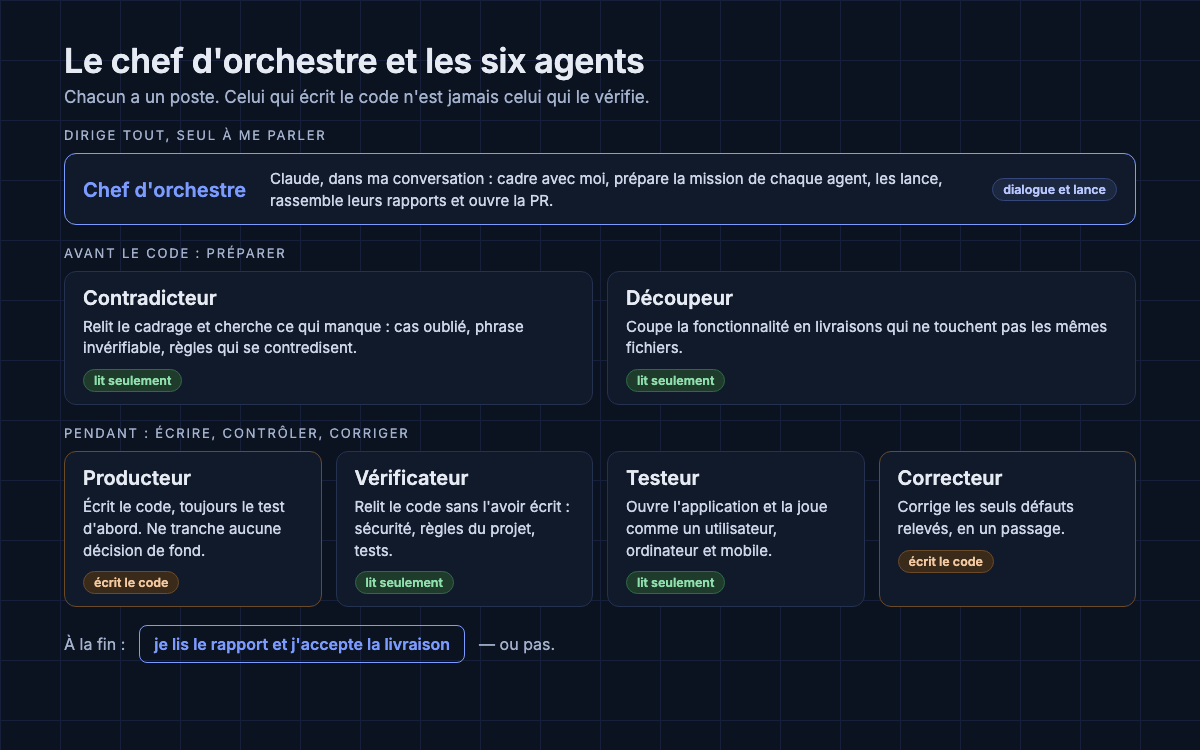
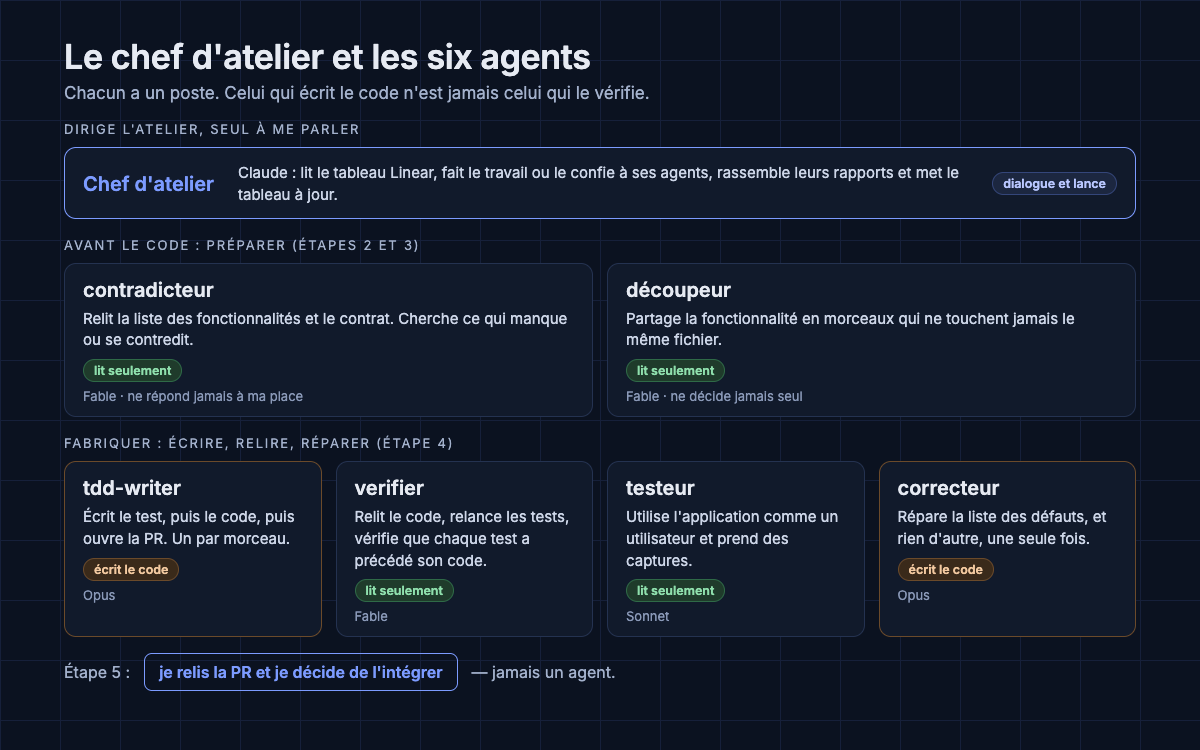
feat(PFO-107): PILOT page told in five steps, inline screenshots and styled tables

diff --git a/src/__tests__/galerie-video.test.tsx b/src/__tests__/galerie-video.test.tsx
@@ -49,7 +49,7 @@ describe("Page de fiche sans captures ni vidéo — rendu figé avant la galerie
     expect(container.querySelector("figure")).toBeNull();
     expect(container.querySelector("video")).toBeNull();
     expect(container.querySelector("#video")).toBeNull();
-    expect(container.innerHTML).toMatchInlineSnapshot(`"<article class="px-6 py-16 lg:px-16"><div class="mx-auto w-full max-w-3xl"><a class="text-sm text-muted-foreground underline underline-offset-4 hover:text-foreground focus-visible:outline-2 focus-visible:outline-offset-2 focus-visible:outline-ring" href="/#projets">← Projets</a><h1 class="mt-6 text-4xl font-bold tracking-tight text-balance">Factice — un titre de fiche</h1><p class="mt-4 text-lg leading-relaxed text-muted-foreground">Un service factice. 12 tests verts.</p><div class="mt-5 flex flex-wrap items-center gap-x-5 gap-y-2 text-sm"><a href="https://github.com/x/factice" aria-label="Code sur GitHub" title="Code sur GitHub" class="inline-flex items-center text-muted-foreground transition-colors hover:text-foreground focus-visible:text-foreground"><svg viewBox="0 0 16 16" width="22" height="22" fill="currentColor" aria-hidden="true"><path d="M8 0C3.58 0 0 3.58 0 8c0 3.54 2.29 6.53 5.47 7.59.4.07.55-.17.55-.38 0-.19-.01-.82-.01-1.49-2.01.37-2.53-.49-2.69-.94-.09-.23-.48-.94-.82-1.13-.28-.15-.68-.52-.01-.53.63-.01 1.08.58 1.23.82.72 1.21 1.87.87 2.33.66.07-.52.28-.87.51-1.07-1.78-.2-3.64-.89-3.64-3.95 0-.87.31-1.59.82-2.15-.08-.2-.36-1.02.08-2.12 0 0 .67-.21 2.2.82.64-.18 1.32-.27 2-.27.68 0 1.36.09 2 .27 1.53-1.04 2.2-.82 2.2-.82.44 1.1.16 1.92.08 2.12.51.56.82 1.27.82 2.15 0 3.07-1.87 3.75-3.65 3.95.29.25.54.73.54 1.48 0 1.07-.01 1.93-.01 2.2 0 .21.15.46.55.38A8.013 8.013 0 0016 8c0-4.42-3.58-8-8-8z"></path></svg></a><span class="min-w-0 text-muted-foreground">2026 · conception</span></div><img alt="" width="1200" height="750" class="mt-8 aspect-[16/10] w-full rounded-lg border border-border object-cover" src="/projets/generated/factice.png"><section id="probleme" class="mt-14"><h2 class="mb-4 text-xl font-semibold tracking-tight">Contexte</h2><div class="space-y-4 text-base leading-relaxed [&amp;_ul]:list-disc [&amp;_ul]:space-y-1 [&amp;_ul]:pl-6 [&amp;_ol]:list-decimal [&amp;_ol]:pl-6 [&amp;_a]:underline [&amp;_a]:underline-offset-4 [&amp;_a:hover]:text-foreground [&amp;_a]:break-words [&amp;_strong]:font-semibold [&amp;_code]:rounded [&amp;_code]:bg-muted [&amp;_code]:px-1 [&amp;_code]:text-sm"><p>Texte du problème.</p></div></section><section id="construit" class="mt-14"><h2 class="mb-4 text-xl font-semibold tracking-tight">Le produit</h2><div class="space-y-4 text-base leading-relaxed [&amp;_ul]:list-disc [&amp;_ul]:space-y-1 [&amp;_ul]:pl-6 [&amp;_ol]:list-decimal [&amp;_ol]:pl-6 [&amp;_a]:underline [&amp;_a]:underline-offset-4 [&amp;_a:hover]:text-foreground [&amp;_a]:break-words [&amp;_strong]:font-semibold [&amp;_code]:rounded [&amp;_code]:bg-muted [&amp;_code]:px-1 [&amp;_code]:text-sm"><p>Texte de la construction.</p></div></section><section id="architecture" class="mt-14"><h2 class="mb-4 text-xl font-semibold tracking-tight">Architecture</h2><ul aria-label="Stack" class="flex flex-wrap gap-2"><li><span data-slot="badge" data-variant="cyber" class="group/badge inline-flex h-5 w-fit shrink-0 items-center justify-center gap-1 overflow-hidden rounded-4xl border border-transparent px-2 py-0.5 text-xs font-medium whitespace-nowrap transition-all focus-visible:border-ring focus-visible:ring-[3px] focus-visible:ring-ring/50 has-data-[icon=inline-end]:pr-1.5 has-data-[icon=inline-start]:pl-1.5 aria-invalid:border-destructive aria-invalid:ring-destructive/40 [&amp;>svg]:pointer-events-none [&amp;>svg]:size-3! bg-cyber/10 text-cyber [a]:hover:bg-cyber/20">TypeScript</span></li></ul></section><section id="preuves" class="mt-14"><h2 class="mb-4 text-xl font-semibold tracking-tight">Où en est le projet</h2><div class="space-y-4 text-base leading-relaxed [&amp;_ul]:list-disc [&amp;_ul]:space-y-1 [&amp;_ul]:pl-6 [&amp;_ol]:list-decimal [&amp;_ol]:pl-6 [&amp;_a]:underline [&amp;_a]:underline-offset-4 [&amp;_a:hover]:text-foreground [&amp;_a]:break-words [&amp;_strong]:font-semibold [&amp;_code]:rounded [&amp;_code]:bg-muted [&amp;_code]:px-1 [&amp;_code]:text-sm"><p>Texte des preuves.</p></div></section><section id="appris" class="mt-14"><h2 class="mb-4 text-xl font-semibold tracking-tight">Ce que j'en retiens</h2><div class="space-y-4 text-base leading-relaxed [&amp;_ul]:list-disc [&amp;_ul]:space-y-1 [&amp;_ul]:pl-6 [&amp;_ol]:list-decimal [&amp;_ol]:pl-6 [&amp;_a]:underline [&amp;_a]:underline-offset-4 [&amp;_a:hover]:text-foreground [&amp;_a]:break-words [&amp;_strong]:font-semibold [&amp;_code]:rounded [&amp;_code]:bg-muted [&amp;_code]:px-1 [&amp;_code]:text-sm"><p>Texte des leçons.</p></div></section><section id="artefacts" class="mt-14"><h2 class="mb-4 text-xl font-semibold tracking-tight">Liens</h2><div class="space-y-4 text-base leading-relaxed [&amp;_ul]:list-disc [&amp;_ul]:space-y-1 [&amp;_ul]:pl-6 [&amp;_ol]:list-decimal [&amp;_ol]:pl-6 [&amp;_a]:underline [&amp;_a]:underline-offset-4 [&amp;_a:hover]:text-foreground [&amp;_a]:break-words [&amp;_strong]:font-semibold [&amp;_code]:rounded [&amp;_code]:bg-muted [&amp;_code]:px-1 [&amp;_code]:text-sm"><p>Texte des artefacts.</p></div></section></div></article>"`);
+    expect(container.innerHTML).toMatchInlineSnapshot(`"<article class="px-6 py-16 lg:px-16"><div class="mx-auto w-full max-w-3xl"><a class="text-sm text-muted-foreground underline underline-offset-4 hover:text-foreground focus-visible:outline-2 focus-visible:outline-offset-2 focus-visible:outline-ring" href="/#projets">← Projets</a><h1 class="mt-6 text-4xl font-bold tracking-tight text-balance">Factice — un titre de fiche</h1><p class="mt-4 text-lg leading-relaxed text-muted-foreground">Un service factice. 12 tests verts.</p><div class="mt-5 flex flex-wrap items-center gap-x-5 gap-y-2 text-sm"><a href="https://github.com/x/factice" aria-label="Code sur GitHub" title="Code sur GitHub" class="inline-flex items-center text-muted-foreground transition-colors hover:text-foreground focus-visible:text-foreground"><svg viewBox="0 0 16 16" width="22" height="22" fill="currentColor" aria-hidden="true"><path d="M8 0C3.58 0 0 3.58 0 8c0 3.54 2.29 6.53 5.47 7.59.4.07.55-.17.55-.38 0-.19-.01-.82-.01-1.49-2.01.37-2.53-.49-2.69-.94-.09-.23-.48-.94-.82-1.13-.28-.15-.68-.52-.01-.53.63-.01 1.08.58 1.23.82.72 1.21 1.87.87 2.33.66.07-.52.28-.87.51-1.07-1.78-.2-3.64-.89-3.64-3.95 0-.87.31-1.59.82-2.15-.08-.2-.36-1.02.08-2.12 0 0 .67-.21 2.2.82.64-.18 1.32-.27 2-.27.68 0 1.36.09 2 .27 1.53-1.04 2.2-.82 2.2-.82.44 1.1.16 1.92.08 2.12.51.56.82 1.27.82 2.15 0 3.07-1.87 3.75-3.65 3.95.29.25.54.73.54 1.48 0 1.07-.01 1.93-.01 2.2 0 .21.15.46.55.38A8.013 8.013 0 0016 8c0-4.42-3.58-8-8-8z"></path></svg></a><span class="min-w-0 text-muted-foreground">2026 · conception</span></div><img alt="" width="1200" height="750" class="mt-8 aspect-[16/10] w-full rounded-lg border border-border object-cover" src="/projets/generated/factice.png"><section id="probleme" class="mt-14"><h2 class="mb-4 text-xl font-semibold tracking-tight">Contexte</h2><div class="space-y-4 text-base leading-relaxed [&amp;_ul]:list-disc [&amp;_ul]:space-y-1 [&amp;_ul]:pl-6 [&amp;_ol]:list-decimal [&amp;_ol]:pl-6 [&amp;_a]:underline [&amp;_a]:underline-offset-4 [&amp;_a:hover]:text-foreground [&amp;_a]:break-words [&amp;_strong]:font-semibold [&amp;_code]:rounded [&amp;_code]:bg-muted [&amp;_code]:px-1 [&amp;_code]:text-sm [&amp;_img]:w-full [&amp;_img]:rounded-lg [&amp;_img]:border [&amp;_img]:border-border [&amp;_table]:block [&amp;_table]:max-w-full [&amp;_table]:overflow-x-auto [&amp;_table]:text-sm [&amp;_th]:border-b [&amp;_th]:border-border [&amp;_th]:px-3 [&amp;_th]:py-2 [&amp;_th]:text-left [&amp;_th]:align-bottom [&amp;_th]:font-semibold [&amp;_td]:border-b [&amp;_td]:border-border [&amp;_td]:px-3 [&amp;_td]:py-2 [&amp;_td]:align-top"><p>Texte du problème.</p></div></section><section id="construit" class="mt-14"><h2 class="mb-4 text-xl font-semibold tracking-tight">Le produit</h2><div class="space-y-4 text-base leading-relaxed [&amp;_ul]:list-disc [&amp;_ul]:space-y-1 [&amp;_ul]:pl-6 [&amp;_ol]:list-decimal [&amp;_ol]:pl-6 [&amp;_a]:underline [&amp;_a]:underline-offset-4 [&amp;_a:hover]:text-foreground [&amp;_a]:break-words [&amp;_strong]:font-semibold [&amp;_code]:rounded [&amp;_code]:bg-muted [&amp;_code]:px-1 [&amp;_code]:text-sm [&amp;_img]:w-full [&amp;_img]:rounded-lg [&amp;_img]:border [&amp;_img]:border-border [&amp;_table]:block [&amp;_table]:max-w-full [&amp;_table]:overflow-x-auto [&amp;_table]:text-sm [&amp;_th]:border-b [&amp;_th]:border-border [&amp;_th]:px-3 [&amp;_th]:py-2 [&amp;_th]:text-left [&amp;_th]:align-bottom [&amp;_th]:font-semibold [&amp;_td]:border-b [&amp;_td]:border-border [&amp;_td]:px-3 [&amp;_td]:py-2 [&amp;_td]:align-top"><p>Texte de la construction.</p></div></section><section id="architecture" class="mt-14"><h2 class="mb-4 text-xl font-semibold tracking-tight">Architecture</h2><ul aria-label="Stack" class="flex flex-wrap gap-2"><li><span data-slot="badge" data-variant="cyber" class="group/badge inline-flex h-5 w-fit shrink-0 items-center justify-center gap-1 overflow-hidden rounded-4xl border border-transparent px-2 py-0.5 text-xs font-medium whitespace-nowrap transition-all focus-visible:border-ring focus-visible:ring-[3px] focus-visible:ring-ring/50 has-data-[icon=inline-end]:pr-1.5 has-data-[icon=inline-start]:pl-1.5 aria-invalid:border-destructive aria-invalid:ring-destructive/40 [&amp;>svg]:pointer-events-none [&amp;>svg]:size-3! bg-cyber/10 text-cyber [a]:hover:bg-cyber/20">TypeScript</span></li></ul></section><section id="preuves" class="mt-14"><h2 class="mb-4 text-xl font-semibold tracking-tight">Où en est le projet</h2><div class="space-y-4 text-base leading-relaxed [&amp;_ul]:list-disc [&amp;_ul]:space-y-1 [&amp;_ul]:pl-6 [&amp;_ol]:list-decimal [&amp;_ol]:pl-6 [&amp;_a]:underline [&amp;_a]:underline-offset-4 [&amp;_a:hover]:text-foreground [&amp;_a]:break-words [&amp;_strong]:font-semibold [&amp;_code]:rounded [&amp;_code]:bg-muted [&amp;_code]:px-1 [&amp;_code]:text-sm [&amp;_img]:w-full [&amp;_img]:rounded-lg [&amp;_img]:border [&amp;_img]:border-border [&amp;_table]:block [&amp;_table]:max-w-full [&amp;_table]:overflow-x-auto [&amp;_table]:text-sm [&amp;_th]:border-b [&amp;_th]:border-border [&amp;_th]:px-3 [&amp;_th]:py-2 [&amp;_th]:text-left [&amp;_th]:align-bottom [&amp;_th]:font-semibold [&amp;_td]:border-b [&amp;_td]:border-border [&amp;_td]:px-3 [&amp;_td]:py-2 [&amp;_td]:align-top"><p>Texte des preuves.</p></div></section><section id="appris" class="mt-14"><h2 class="mb-4 text-xl font-semibold tracking-tight">Ce que j'en retiens</h2><div class="space-y-4 text-base leading-relaxed [&amp;_ul]:list-disc [&amp;_ul]:space-y-1 [&amp;_ul]:pl-6 [&amp;_ol]:list-decimal [&amp;_ol]:pl-6 [&amp;_a]:underline [&amp;_a]:underline-offset-4 [&amp;_a:hover]:text-foreground [&amp;_a]:break-words [&amp;_strong]:font-semibold [&amp;_code]:rounded [&amp;_code]:bg-muted [&amp;_code]:px-1 [&amp;_code]:text-sm [&amp;_img]:w-full [&amp;_img]:rounded-lg [&amp;_img]:border [&amp;_img]:border-border [&amp;_table]:block [&amp;_table]:max-w-full [&amp;_table]:overflow-x-auto [&amp;_table]:text-sm [&amp;_th]:border-b [&amp;_th]:border-border [&amp;_th]:px-3 [&amp;_th]:py-2 [&amp;_th]:text-left [&amp;_th]:align-bottom [&amp;_th]:font-semibold [&amp;_td]:border-b [&amp;_td]:border-border [&amp;_td]:px-3 [&amp;_td]:py-2 [&amp;_td]:align-top"><p>Texte des leçons.</p></div></section><section id="artefacts" class="mt-14"><h2 class="mb-4 text-xl font-semibold tracking-tight">Liens</h2><div class="space-y-4 text-base leading-relaxed [&amp;_ul]:list-disc [&amp;_ul]:space-y-1 [&amp;_ul]:pl-6 [&amp;_ol]:list-decimal [&amp;_ol]:pl-6 [&amp;_a]:underline [&amp;_a]:underline-offset-4 [&amp;_a:hover]:text-foreground [&amp;_a]:break-words [&amp;_strong]:font-semibold [&amp;_code]:rounded [&amp;_code]:bg-muted [&amp;_code]:px-1 [&amp;_code]:text-sm [&amp;_img]:w-full [&amp;_img]:rounded-lg [&amp;_img]:border [&amp;_img]:border-border [&amp;_table]:block [&amp;_table]:max-w-full [&amp;_table]:overflow-x-auto [&amp;_table]:text-sm [&amp;_th]:border-b [&amp;_th]:border-border [&amp;_th]:px-3 [&amp;_th]:py-2 [&amp;_th]:text-left [&amp;_th]:align-bottom [&amp;_th]:font-semibold [&amp;_td]:border-b [&amp;_td]:border-border [&amp;_td]:px-3 [&amp;_td]:py-2 [&amp;_td]:align-top"><p>Texte des artefacts.</p></div></section></div></article>"`);
   });
 });
 

diff --git a/components/fiche.tsx b/components/fiche.tsx
@@ -9,7 +9,9 @@ import { GitHubLink } from "./github-link";
 
 // Mise en forme du HTML Markdown (Tailwind retire les puces et le soulignement par défaut).
 const MARKDOWN =
-  "space-y-4 text-base leading-relaxed [&_ul]:list-disc [&_ul]:space-y-1 [&_ul]:pl-6 [&_ol]:list-decimal [&_ol]:pl-6 [&_a]:underline [&_a]:underline-offset-4 [&_a:hover]:text-foreground [&_a]:break-words [&_strong]:font-semibold [&_code]:rounded [&_code]:bg-muted [&_code]:px-1 [&_code]:text-sm";
+  "space-y-4 text-base leading-relaxed [&_ul]:list-disc [&_ul]:space-y-1 [&_ul]:pl-6 [&_ol]:list-decimal [&_ol]:pl-6 [&_a]:underline [&_a]:underline-offset-4 [&_a:hover]:text-foreground [&_a]:break-words [&_strong]:font-semibold [&_code]:rounded [&_code]:bg-muted [&_code]:px-1 [&_code]:text-sm" +
+  // Images du corps (captures placées dans le texte) et tableaux : le tableau défile seul sur mobile, jamais la page.
+  " [&_img]:w-full [&_img]:rounded-lg [&_img]:border [&_img]:border-border [&_table]:block [&_table]:max-w-full [&_table]:overflow-x-auto [&_table]:text-sm [&_th]:border-b [&_th]:border-border [&_th]:px-3 [&_th]:py-2 [&_th]:text-left [&_th]:align-bottom [&_th]:font-semibold [&_td]:border-b [&_td]:border-border [&_td]:px-3 [&_td]:py-2 [&_td]:align-top";
 
 const LINK =
   "underline underline-offset-4 hover:text-foreground focus-visible:outline-2 focus-visible:outline-offset-2 focus-visible:outline-ring";

diff --git a/content/fiches/pilot.md b/content/fiches/pilot.md
@@ -9,21 +9,14 @@ depot: https://github.com/cedricgicquiaud/pilot-method
 demo:
 ordre: 4
 visuel: /projets/pilot/circuit.png
-captures:
-  - fichier: /projets/pilot/agents.png
-    legende: "Le chef d'orchestre et les six agents de PILOT : leur rôle, et ce que chacun a le droit de faire. Seuls deux agents modifient le code."
-  - fichier: /projets/pilot/linear.png
-    legende: "Une tâche réelle de ce site dans Linear : le problème, ce qu'on fait, et la liste « Terminé quand », refus compris, que les agents doivent tenir."
-  - fichier: /projets/pilot/pr.png
-    legende: "La PR qui livre cette tâche, écrite par l'agent : le code de la tâche dans le titre, ce qui change expliqué en clair, acceptée par moi."
 ---
 
 # PILOT — workflow agentique
 
-**En bref.** Un workflow agentique, ma méthode d'agentic engineering : je décide quoi construire,
-Claude, en chef d'orchestre, cadre avec moi et dirige six agents IA qui écrivent le code, le
-relisent et le corrigent, et je valide chaque livraison avant qu'elle parte. Je l'utilise sur mes projets réels, dont ce site (67 livraisons depuis fin août). Méthode
-publique, sous licence libre.
+**En bref.** Un workflow agentique, ma méthode d'agentic engineering : PILOT fait avancer un
+projet en cinq étapes ; je décide aux moments clés et, entre deux décisions, Claude et six agents
+IA travaillent seuls. Je l'utilise sur mes projets réels, dont ce site (67 livraisons depuis fin
+août). Méthode publique, sous licence libre.
 
 ## Problème
 
@@ -37,75 +30,206 @@ Laissé seul, un agent fait trois choses que je ne veux pas :
   code fait ce qu'on attend. Écrit après coup, il confirme le code au lieu de le contrôler ;
 - **il se relit lui-même**, et ne voit donc pas ses propres erreurs.
 
-PILOT répond aux deux problèmes : un tableau de bord pour savoir où en est le projet, et une
-équipe d'agents où celui qui écrit le code n'est jamais celui qui le vérifie.
+PILOT répond à ces trois défauts : je garde les décisions, le test vient toujours avant le code,
+et celui qui écrit le code n'est jamais celui qui le vérifie.
 
 ## Ce que j'ai construit
 
-**Trois outils, un rôle chacun.**
-- **Linear**, le tableau de bord : chaque fonctionnalité, ses tâches et leur état. C'est le
-  seul écran que je regarde au quotidien.
-- **GitHub**, l'atelier : le code, et une demande de modification (une « PR ») par livraison,
-  que je relis avant de l'accepter.
-- **Claude Code**, l'équipe : un chef d'orchestre et six agents IA, chacun avec un poste précis.
+**Le principe.** PILOT fait avancer un projet en cinq étapes. Je décide aux moments clés. Entre
+deux décisions, Claude et ses agents travaillent seuls.
 
-Le numéro de la tâche Linear figure dans le nom de chaque PR. Quand j'accepte une PR, Linear
-coche la tâche tout seul : personne ne met le tableau à jour à la main.
+**Les trois outils.**
+- **Linear** est le tableau de bord : les tâches, dans l'ordre, et où on en est.
+- **GitHub** est l'atelier : c'est là que vit le code.
+- **Claude** est le chef d'atelier. Il lit le tableau, fait le travail ou le confie à ses agents,
+  puis met le tableau à jour.
 
-**Le déroulé d'une fonctionnalité, en cinq étapes.**
-1. **Cadrer.** Je décris ce que je veux. Le chef d'orchestre me pose ses questions, puis écrit
-   la liste de ce qui devra être vrai à la fin, en 10 à 30 phrases vérifiables. Exemple : « une facture émise ne peut plus
-   être modifiée ». Je valide.
-2. **Découper.** La fonctionnalité est coupée en livraisons qui ne touchent pas les mêmes
-   fichiers, pour pouvoir avancer en parallèle. Je valide.
-3. **Produire.** Le chef d'orchestre lance les agents : ils écrivent, vérifient et corrigent,
-   sans moi.
-4. **Accepter.** Je lis le rapport que le chef d'orchestre a rassemblé, je tranche les
-   questions remontées, et j'accepte la livraison.
-5. **Apprendre.** Chaque erreur trouvée devient une règle écrite que les agents liront la fois
-   suivante.
+Chaque tâche a un code, par exemple KIN-12. Ce code est écrit sur tout ce qui la concerne dans
+GitHub. C'est ce fil qui permet au tableau de se mettre à jour tout seul.
 
-**Le chef d'orchestre.** C'est Claude, dans la conversation que j'ai avec lui. Au cadrage, il
-se renseigne sur ce qui existe déjà, me pose ses questions par séries avec une réponse
-recommandée pour chacune, puis rédige le cadrage et la liste des fonctionnalités. En production,
-il prépare la mission de chaque agent, les lance dans l'ordre, rassemble leurs rapports et ouvre
-la PR. Il n'est pas un agent comme les autres pour deux raisons : il est le seul à pouvoir
-dialoguer avec moi, et le seul à pouvoir lancer les autres agents. Sa fiche de poste est la
-procédure `pilot` elle-même : ses commandes, ses arrêts pour que je valide, ses règles.
+Pour illustrer les étapes, prenons une application de prise de rendez-vous pour un kiné.
 
-**Les six agents et leur rôle.** Chacun démarre à vide, avec sa seule mission écrite : il ne voit
-que ce dont il a besoin.
-- **Le contradicteur** relit le cadrage avant que je le valide. Il cherche ce qui manque : un
-  cas oublié, une phrase impossible à vérifier, deux règles qui se contredisent. Il pose des
-  questions, il ne répond pas à ma place. Il ne fait que lire.
-- **Le découpeur** propose les livraisons. Il vérifie qu'aucune ne touche les fichiers d'une
-  autre, et que chaque phrase du cadrage est rattachée à une livraison. Il ne fait que lire.
-- **Le producteur** écrit le code, seul dans sa propre copie du projet. Il commence toujours
-  par le test : il écrit un test qui échoue, puis le code qui le fait passer, et enregistre
-  chaque étape séparément. Ainsi on peut prouver après coup que le test était là avant le code.
-  S'il rencontre une décision qui n'est pas dans sa mission, il ne la tranche pas : il prend
-  l'option la plus facile à défaire et me la signale.
-- **Le vérificateur** relit le code sans l'avoir écrit : sécurité, respect des règles du projet,
-  chaque phrase du cadrage couverte par un test, test écrit avant le code. Il relance lui-même
-  les tests. Il ne modifie rien.
-- **Le testeur** ouvre l'application dans un navigateur, sur ordinateur et sur mobile, et joue
-  les scénarios prévus comme le ferait un utilisateur. Il signale ce qui cloche à l'écran. Il ne
-  modifie rien.
-- **Le correcteur** corrige uniquement les défauts relevés par le vérificateur et le testeur, en
-  un seul passage. S'il en reste, la livraison m'arrive marquée « à ne pas accepter en l'état ».
+**Étape 1 — Comprendre le projet (`init`).** Elle n'a lieu qu'une fois, au démarrage.
+1. Claude se renseigne d'abord. Il cherche ce qui existe déjà : les logiciels de rendez-vous
+   connus, les règles à respecter (les données de santé, par exemple).
+2. Il m'interroge en quelques séries de questions. Pour chacune, il propose une réponse : « Les
+   patients peuvent-ils annuler en ligne ? Je propose : oui, jusqu'à 24 h avant. »
+3. Il écrit une page qui décrit le produit : pour qui, quel problème, ce qui entre dans la
+   première version et ce qui n'y entre pas.
+4. Si l'application a des écrans, il me demande des exemples d'interfaces que j'aime. Il en tire
+   une direction visuelle.
+5. Je valide. Ensuite il prépare le tableau Linear et le dépôt de code.
 
-Chaque agent a le modèle d'IA qui fait le mieux son poste, choisi par des essais comparés :
-Opus écrit et corrige, Fable vérifie et relit le cadrage, Sonnet teste à l'écran.
+**Étape 2 — Faire la liste des fonctionnalités (`roadmap`).**
+1. Claude propose toutes les grandes fonctionnalités, dans l'ordre. Exemple : « Prendre
+   rendez-vous », « Annuler », « Rappel par SMS », « Agenda du kiné ».
+2. Le contradicteur relit la liste. C'est un agent dont le seul travail est de chercher ce qui
+   manque. Il demande par exemple : « Rien n'est prévu quand le kiné est malade et doit tout
+   décaler ? » Il pose des questions, il ne répond pas à ma place.
+3. Je valide la liste. Claude la crée dans Linear et la place sur un calendrier.
+4. Si l'application a des écrans, Claude prépare aussi le système de design : les couleurs, les
+   polices et les composants communs. Je le valide.
 
-**Trois règles qui ne bougent jamais.** J'accepte moi-même chaque livraison. Les décisions de fond
-me reviennent. Pas de code sans test écrit avant.
+**Étape 3 — Préparer une fonctionnalité (`feature`).** Elle a lieu une fois par fonctionnalité,
+en deux temps. Je valide à la fin de chacun.
 
-Le tout tient dans des fichiers texte et quelques scripts, installés dans chaque projet en une
-commande. Une commande, `next`, lit Linear et me dit quoi faire ensuite.
+*Temps 1 — dire ce qui devra être vrai.*
+1. Claude pose ses dernières questions.
+2. Il écrit les décisions prises et une liste de 10 à 30 phrases vérifiables. Par exemple :
+   « Un patient voit les créneaux libres de la semaine. » « On ne peut pas réserver un créneau
+   déjà pris. » « On ne peut pas réserver dans le passé. » Au moins un tiers de ces phrases
+   disent ce qui doit être impossible. C'est souvent là que les bugs se cachent.
+3. Le contradicteur relit encore : « Que se passe-t-il si deux patients cliquent sur le même
+   créneau à la même seconde ? »
+4. Je valide. Cette liste de phrases s'appelle le contrat. Tout le reste sera jugé dessus.
+
+*Temps 2 — découper le travail.*
+1. Le découpeur est un agent qui partage la fonctionnalité en morceaux livrables. Deux morceaux
+   ne touchent jamais le même fichier, donc ils ne se gênent pas. On peut alors les fabriquer en
+   même temps. Exemple : morceau A « choisir un créneau », morceau B « recevoir la confirmation ».
+2. Chaque morceau reçoit ses tâches et ses phrases du contrat. Chaque phrase doit être attribuée
+   à un morceau.
+3. Je valide le découpage. Claude crée les tâches dans Linear.
+
+![Une tâche réelle de ce site dans Linear](/projets/pilot/linear.png)
+
+*Une tâche réelle de ce site dans Linear : le problème, ce qu'on fait, et la liste « Terminé
+quand », refus compris, que les agents doivent tenir.*
+
+**Étape 4 — Fabriquer (`run`).** C'est la seule étape qui tourne entièrement sans moi.
+1. Chaque morceau a sa propre copie du projet. Chaque agent travaille dans sa copie, sans voir
+   les autres.
+2. Le tdd-writer fabrique, à raison d'un par morceau. Il suit une règle stricte : d'abord le
+   test, ensuite le code. Il écrit le test (« réserver un créneau pris doit être refusé »), vérifie
+   qu'il échoue, puisque le code n'existe pas encore, puis écrit juste assez de code pour qu'il
+   passe, et le met au propre. Il enregistre chaque étape à part : l'historique prouve donc que
+   le test est venu avant le code. À la fin, il ouvre une demande d'intégration (une « PR ») et
+   s'arrête. S'il tombe sur une question que sa mission ne règle pas, il ne tranche pas : il
+   prend l'option la plus facile à défaire et la signale.
+3. Deux relecteurs regardent le morceau en même temps. Aucun des deux ne l'a fabriqué, et aucun
+   ne le modifie. Le verifier lit le code, relance lui-même les tests, vérifie que chaque test a
+   précédé son code et que chaque phrase du contrat a son test. Il classe ce qu'il trouve en
+   trois niveaux : bloquant, important, à considérer. Le testeur ouvre l'application comme le
+   ferait un utilisateur, prend des captures d'écran et relève ce qui cloche : un bouton
+   invisible sur téléphone, une page qui plante.
+4. Le correcteur répare, s'il le faut. Il reçoit la liste des défauts et ne touche à rien
+   d'autre. Il ne passe qu'une fois. Pour chaque défaut, il écrit d'abord un test qui le montre,
+   puis il le corrige.
+5. Un rapport s'écrit dans chaque PR : ce qui a été fait, les preuves, les captures d'écran, les
+   questions laissées ouvertes. Puis tout s'arrête.
+
+![Le chef d'atelier et les six agents](/projets/pilot/agents.png)
+
+*Le chef d'atelier et les six agents : le rôle de chacun, et ce qu'il a le droit de faire. Seuls
+deux agents modifient le code.*
+
+**Étape 5 — Décider et apprendre (merge, puis `sync`).**
+1. Je relis la PR et je décide de l'intégrer. C'est toujours moi qui le fais, jamais un agent :
+   un verrou technique les en empêche. C'est aussi le moment où je réponds aux questions que les
+   agents ont refusé de trancher.
+2. Claude remet le tableau à jour : statuts et dates.
+3. Il tire les leçons. Chaque erreur qui pourrait revenir devient une règle écrite, que les agents
+   liront la fois suivante. Exemple : au merge, je fais remarquer qu'un bouton d'annulation doit
+   toujours demander confirmation ; la remarque devient une règle du projet, et je n'ai plus à la
+   refaire.
+
+![La PR qui livre la tâche Linear](/projets/pilot/pr.png)
+
+*La PR qui livre cette tâche, écrite par l'agent : le code de la tâche dans le titre, ce qui
+change expliqué en clair, acceptée par moi.*
+
+**Au quotidien : `next`.** Je n'ai pas à retenir l'ordre des étapes. Je tape `/pilot next`. Claude
+lit le tableau, résume en cinq lignes où on en est et propose l'étape suivante. Je réponds oui
+ou non. Pour une petite correction hors fonctionnalité, `/pilot fix` suffit : une tâche, un test,
+une PR, sans toute la chaîne.
+
+**Ce qui compose la méthode.** Le tout tient dans des fichiers texte et quelques programmes,
+installés dans chaque projet en une commande.
+
+| Élément | Nombre | Ce que c'est concrètement | Rôle |
+|---|---|---|---|
+| Agents | 6 | Un fichier `.md` par agent, dans `.claude/agents/`. L'en-tête donne son nom, son modèle, sa limite d'échanges et les outils qu'il a le droit d'utiliser. Le corps est sa consigne : qui il est, ce qu'il fait, ce qu'il ne fait jamais, et la forme exacte de son rapport. | Faire chacun une seule partie du travail, sans déborder sur celle des autres |
+| Commandes | 9 | Aucune n'a de fichier à elle. Chacune est une entrée du sommaire de `SKILL.md`, et son pas-à-pas est dans une fiche de référence. On les tape sous la forme `/pilot <commande>`. | Me donner un mot à taper pour chaque situation |
+| Skills | 6 | Un dossier par skill, avec un fichier `SKILL.md`. En tête, une description dit à Claude quand l'utiliser ; dessous vient la marche à suivre. | Donner à Claude un savoir-faire qu'il charge quand la situation le demande |
+| Fiches de référence | 19 | Des fichiers `.md` rangés dans `skills/pilot/reference/`. Chacun commence par dire qui le lit et quand. | Garder la skill courte : le détail ne se lit qu'au moment du geste |
+| Outils | 3 | De vrais programmes, en Python ou en JavaScript, dans `.claude/tools/`. Deux sont branchés sur Claude Code par des « hooks » (des déclencheurs automatiques). | Faire ce qu'une machine fait mieux qu'un texte : mesurer, photographier, bloquer |
+| Scripts Linear | 4 | Des programmes Python qui parlent directement à Linear. | Faire ce que la connexion habituelle à Linear ne sait pas faire : créer la structure d'un tableau, dater, mesurer |
+
+**Les six skills.**
+
+| Skill | Ce qu'il y a dedans |
+|---|---|
+| `pilot` | Le principe, le vocabulaire, les 7 invariants, les statuts et le sommaire des 9 commandes (134 lignes). S'y ajoutent les 19 fiches de référence, les 4 scripts Linear et un jeu d'épreuves qui vérifie que la skill se déclenche au bon moment. |
+| `diagnosing-bugs` | La marche à suivre pour un bug qui ne se reproduit pas du premier coup : le reproduire, formuler des hypothèses, les tester une à une, corriger avec un test qui le prouve. Importée de Matt Pocock. |
+| `resolving-merge-conflicts` | Comment débloquer un merge sans perdre le travail d'un côté ni de l'autre. Importée de Matt Pocock. |
+| `to-questionnaire` | Transforme une question que seul le client peut trancher en un document à lui envoyer. Importée de Matt Pocock. |
+| `research-assistant` | Comment mener une recherche sur un sujet et en tirer une synthèse. `init` l'utilise avant l'entretien. |
+| `rendu-fonctionnel` | Le format de mes comptes rendus : d'abord ce qui change pour moi, ensuite les détails techniques. |
+
+**Les 19 fiches de référence.**
+
+| Fiche | Ce qu'elle contient |
+|---|---|
+| *Pas-à-pas des commandes (5)* | |
+| `init.md` | La recherche, l'entretien, la page produit, la direction visuelle, le branchement de Linear, la mise en place du dépôt |
+| `roadmap.md` | Proposer les fonctionnalités, les créer et les dater dans Linear, préparer le système de design |
+| `feature.md` | Le cadrage avec son contrat, puis le découpage en morceaux et en tâches |
+| `produire.md` | Les copies du projet, le lancement des agents, les relectures, la correction et le modèle du rapport de PR |
+| `suivre.md` | Les étapes de `next`, `fix`, `sync` et `benchmark`, dont la façon de transformer mes remarques de merge en règles |
+| *Règles d'un geste (8)* | |
+| `entretien.md` | Comment poser les questions d'un cadrage : par séries numérotées, toujours avec une réponse proposée |
+| `fiches.md` | Comment on écrit une fiche Linear, et comment on lui donne une taille, une date et une priorité |
+| `git.md` | Le nommage des branches, le modèle de PR, le fonctionnement du verrou |
+| `linear.md` | Les limites de la connexion à Linear et la façon de les contourner |
+| `domaine.md` | Le glossaire du produit et les décisions durables : quand en écrire une, et sous quelle forme |
+| `tests.md` | Ce qu'est un bon test, les trois mauvais à refuser, et ce qu'on a le droit de simuler |
+| `smells.md` | Les douze « odeurs » de code (des signes qu'un code va mal vieillir) et le remède de chacune. Le verifier la lit. |
+| `design-agents.md` | Ce que les agents font du système de design quand il existe : couleurs, polices, composants |
+| *Modèles à remplir (6)* | |
+| `template-feature.md` | Le formulaire d'une fiche feature : problème, ce que l'utilisateur pourra faire, décisions produit, contrat |
+| `template-tache.md` | Le formulaire d'une tâche : problème, ce qu'on fait, cases « Terminé quand », cas de test |
+| `template-bug.md` | Le formulaire d'un bug : comment le reproduire pas à pas, ce qui est attendu, ce qui arrive |
+| `MISSION.template.md` | L'ordre de mission d'un morceau livrable : ses fichiers, ses phrases du contrat, ses décisions |
+| `AGENT.template.md` | Comment s'écrit une fiche d'agent, pour en créer une ou en modifier une |
+| `section-pilot.md` | Le bloc à coller dans le `CLAUDE.md` d'un projet pour le déclarer piloté |
+
+**Les trois outils.**
+
+| Outil | Ce que c'est |
+|---|---|
+| `cout-agents` | Un programme Python qui lit les journaux des agents. Il donne, pour chaque morceau livrable, le temps passé et les jetons consommés. Un petit script ouvre un panneau de suivi en direct dès qu'un agent démarre. |
+| `passe-visuelle` | Un programme JavaScript qui ouvre l'application dans un navigateur invisible, prend les captures d'écran et mesure les défauts. Le testeur s'en sert. |
+| `verrou-git` | Un programme Python appelé avant chaque commande. Il refuse tout merge, tout envoi direct sur la branche principale et tout envoi forcé. Il a ses propres tests. |
+
+**Les règles qui la font tenir.**
+
+| Règle | Nombre | Rôle | Détail |
+|---|---|---|---|
+| Invariants | 7 | Fixer les règles qui tiennent quelle que soit la commande | dont 3 jamais négociés : merge humain, décisions remontées, test avant code |
+| Validations par projet | 2, plus 2 avec des écrans | Vérifier que le produit et son plan sont les bons avant de construire | la page produit et la liste des fonctionnalités ; avec des écrans, la direction visuelle et le système de design |
+| Validations par fonctionnalité | 4 | Garder la main là où une erreur coûte cher, et nulle part ailleurs | le contrat, le découpage, le merge, les règles à retenir |
+| Phrases du contrat | 10 à 30 | Dire avant le code ce qui devra être vrai, pour juger le résultat dessus | dont au moins un tiers de refus |
+| PR par morceau livrable | 1 | Livrer par petits morceaux, faciles à relire et à défaire | |
+| Passages du correcteur | 1 | Empêcher une boucle de corrections sans fin, qui coûte sans aboutir | jamais de deuxième tour |
+| Niveaux de gravité | 3 | Montrer d'un coup d'œil ce qui bloque et ce qui peut attendre | bloquant, important, à considérer |
+| Statuts d'une fonctionnalité | 6 | Dire où en est chaque fonctionnalité ; c'est Claude qui les pose | À cadrer, Planifiée, En développement, En revue, Terminée, Rétro faite |
+| Statuts d'une tâche | 5 | Dire où en est chaque tâche ; c'est GitHub qui les met à jour | plus Bloquée et Annulée |
+
+**Les six agents.** La limite est le nombre maximal d'échanges d'un agent ; au-delà, il est
+arrêté. Fable sert à juger, Opus à fabriquer, Sonnet à exécuter.
+
+| Agent | Quand | Ce qu'il fait | Ce qu'il ne fait jamais | Modèle | Limite |
+|---|---|---|---|---|---|
+| contradicteur | Liste des fonctionnalités, préparation d'une fonctionnalité | Cherche ce qui manque ou se contredit | Répondre à ma place | Fable | 50 |
+| découpeur | Préparation d'une fonctionnalité | Partage le travail en morceaux qui ne se gênent pas | Décider seul | Fable | 70 |
+| tdd-writer | Fabrication | Écrit le test, puis le code, puis ouvre la PR | Sortir de son morceau | Opus | 150 |
+| verifier | Après la fabrication | Relit le code et vérifie les preuves | Corriger | Fable | 50 |
+| testeur | Après la fabrication | Utilise l'application et prend des captures | Corriger | Sonnet | 60 |
+| correcteur | Après les relectures | Répare la liste des défauts, une seule fois | Toucher à autre chose | Opus | 80 |
 
 ## Preuves
 
-État au 14/10/2026 : utilisée tous les jours sur mes projets ; publiée le 09/10/2026.
+État au 15/10/2026 : utilisée tous les jours sur mes projets ; publiée le 09/10/2026.
 
 - **Ce site.** 67 livraisons depuis le 29/08/2026, chacune avec sa tâche Linear et sa PR relue
   avant d'être acceptée.
@@ -114,7 +238,7 @@ commande. Une commande, `next`, lit Linear et me dit quoi faire ensuite.
   jour automatiquement à chaque livraison acceptée.
 - **Le banc d'essai.** Avant de la brancher sur ces projets, je l'ai rodée sur un projet complet
   produit uniquement par cette méthode, un petit logiciel de gestion clients (23 livraisons). Le
-  vérificateur y a attrapé 8 défauts sérieux que les tests ne voyaient pas, dont une fuite de
+  verifier y a attrapé 8 défauts sérieux que les tests ne voyaient pas, dont une fuite de
   données entre comptes, tous corrigés avant que je les voie. Une fonctionnalité que j'estimais à
   2,44 h de travail est sortie en 0,66 h.
 
@@ -127,7 +251,7 @@ mode « je lance deux chantiers et je reviens le soir » n'est pas encore fait.
   c'est un relecteur qui n'a pas écrit le code.
 - **Ce qui n'est pas demandé n'est pas fait.** Les agents n'avaient pas soigné l'apparence parce
   que personne ne l'avait demandé. C'est ce qui m'a fait ajouter le testeur, qui regarde l'écran.
-- **Le cadrage doit dire ce qui est interdit, pas seulement ce qui est attendu.** La plupart des
+- **Le contrat doit dire ce qui est interdit, pas seulement ce qui est attendu.** La plupart des
   défauts venaient de cas négatifs que personne n'avait écrits.
 - **Le modèle le plus puissant n'est pas le meilleur partout.** Pour juger, il voit plus. Pour
   exécuter une consigne précise, un modèle moins cher fait le même travail.
